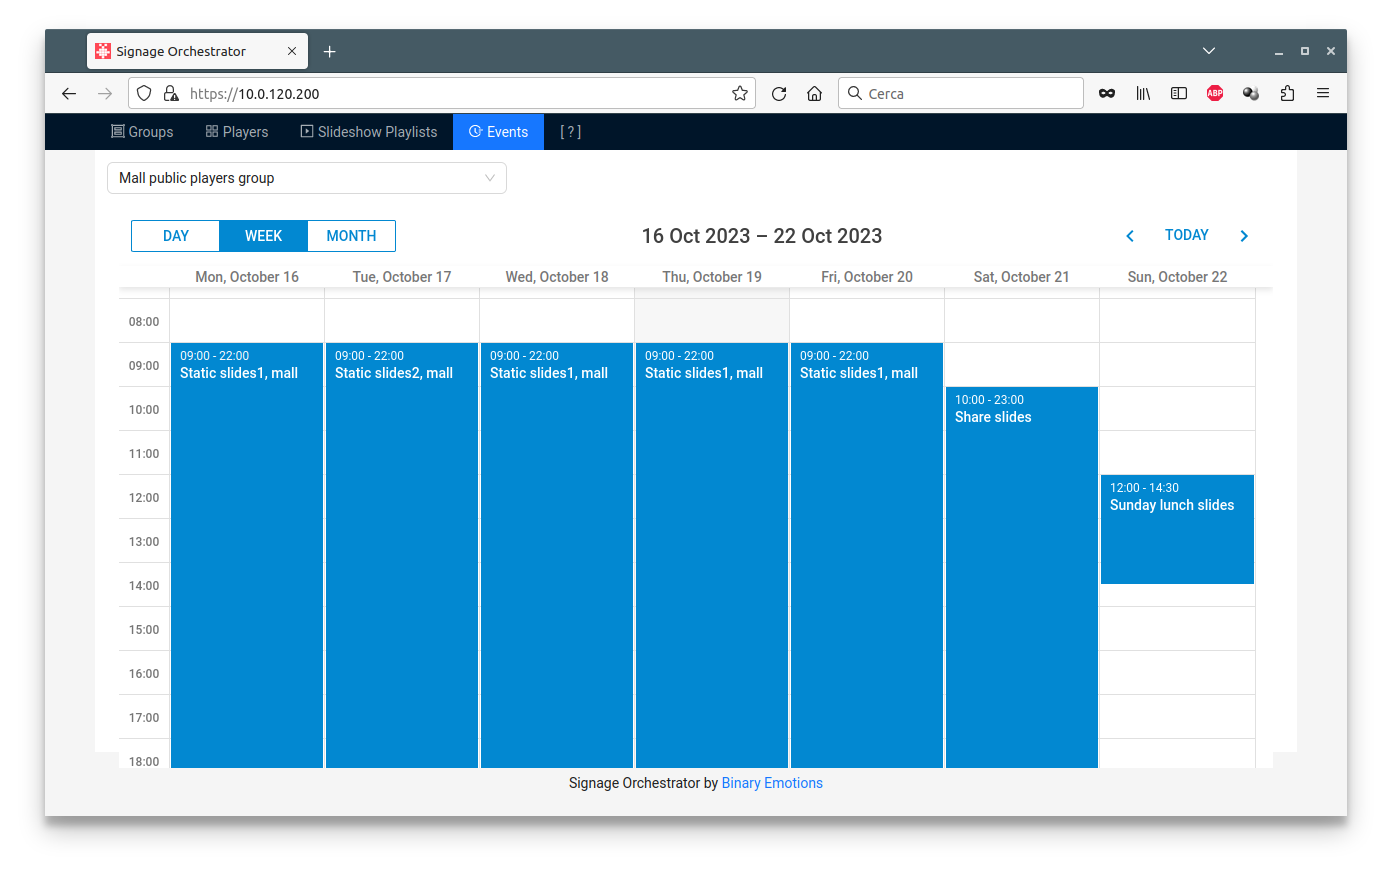
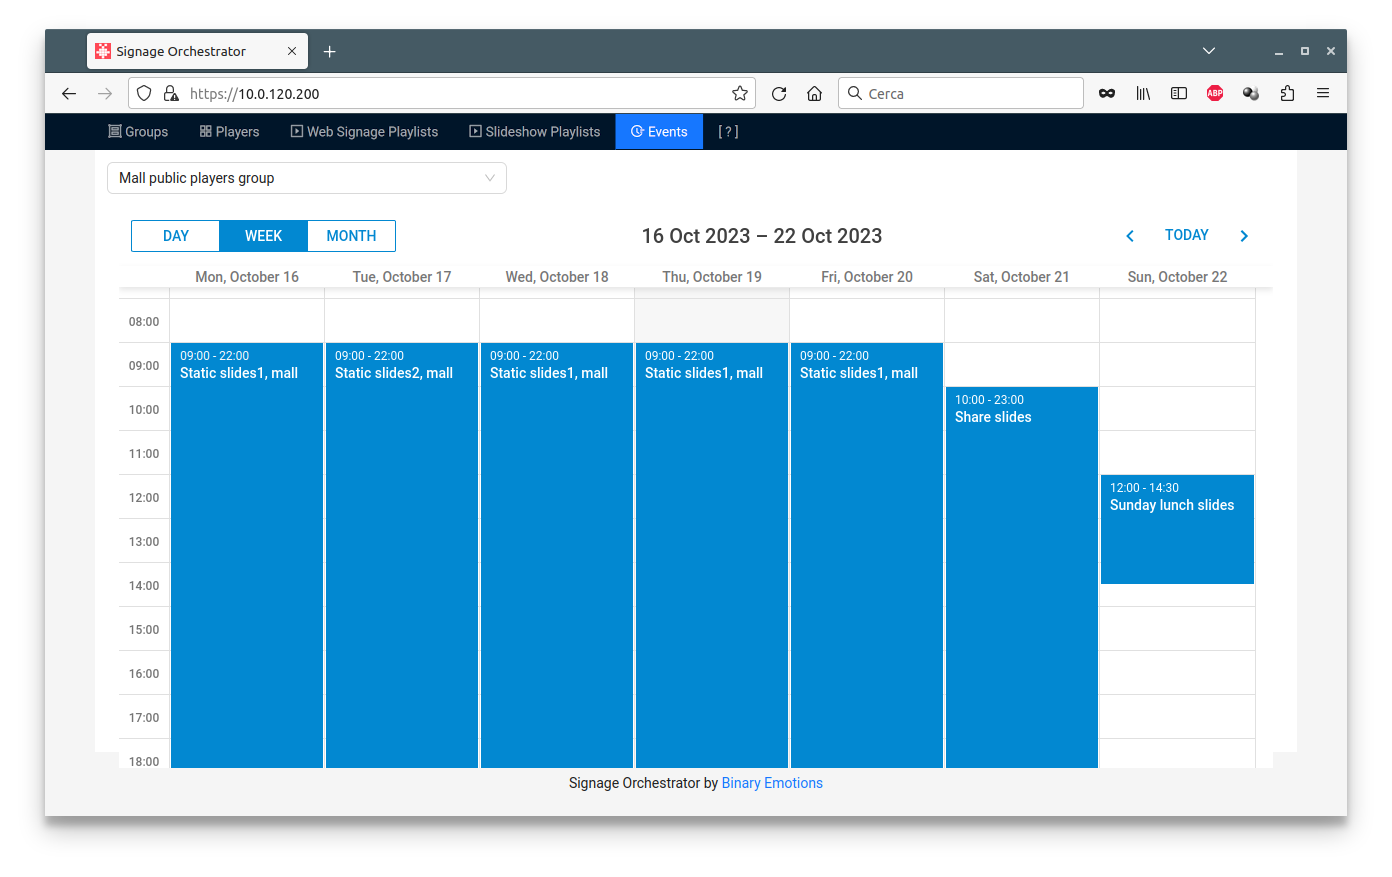
README

Changed region(s): [[0.1545, 0.1231, 0.5251, 0.1847], [0.0618, 0.1231, 0.1236, 0.1539]]

diff --git a/README.md b/README.md
@@ -13,12 +13,16 @@ Playlists are player configurations.
 
 Essentially, for Raspberry Slideshow a playlist is the <em>media.conf</em> directives, plus the transition and blend time of images:
 
-![Usage3](docs/usage/playlists.png)
+![Usage3](docs/usage/slideshow.playlists.png)
+
+For Raspberry Digital Signage, a playlist contains the following information:
+
+![Usage4](docs/usage/web.playlists.png)
 
 In the Events tab you can schedule a group of players to use a playlist:
 
-![Usage4](docs/usage/events.png)
-![Usage5](docs/usage/events.detail.png)
+![Usage5](docs/usage/events.png)
+![Usage6](docs/usage/events.detail.png)
 
 Please note that in the Events tab you need to select the Group, then all events related to it will be displayed.
 
